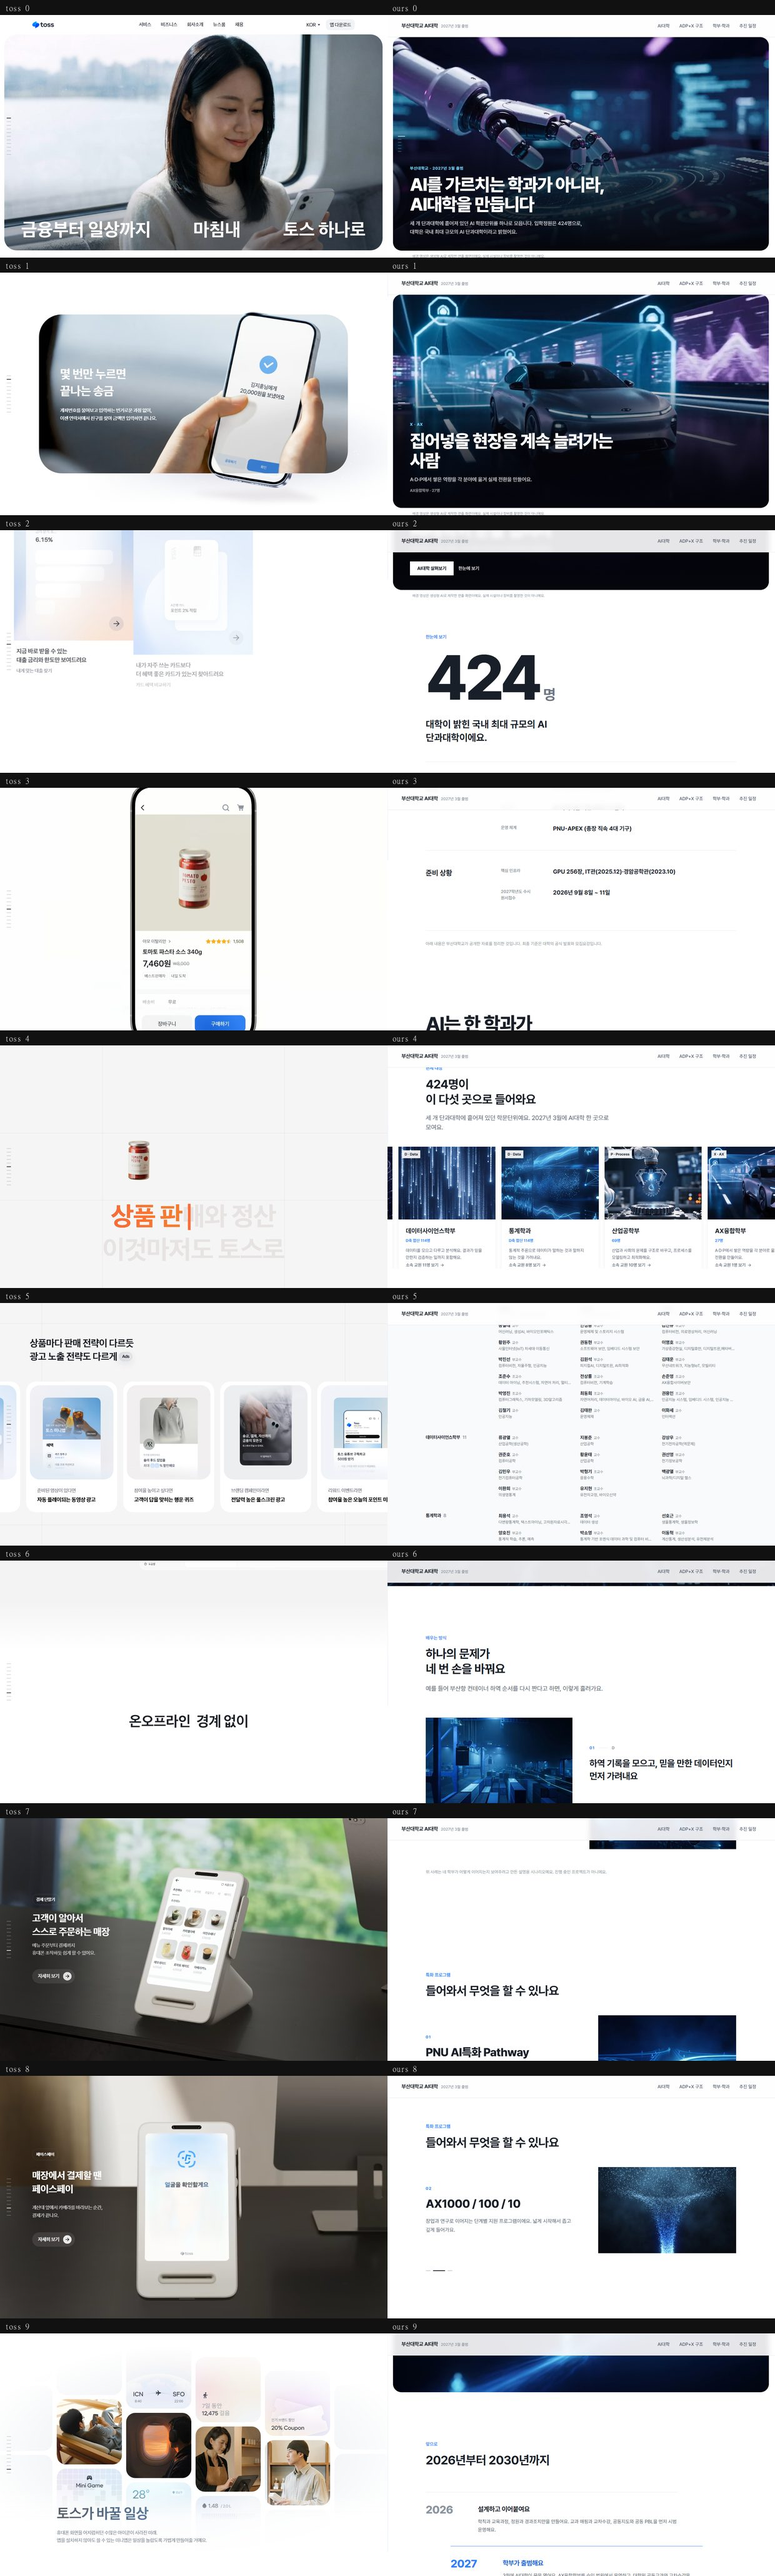
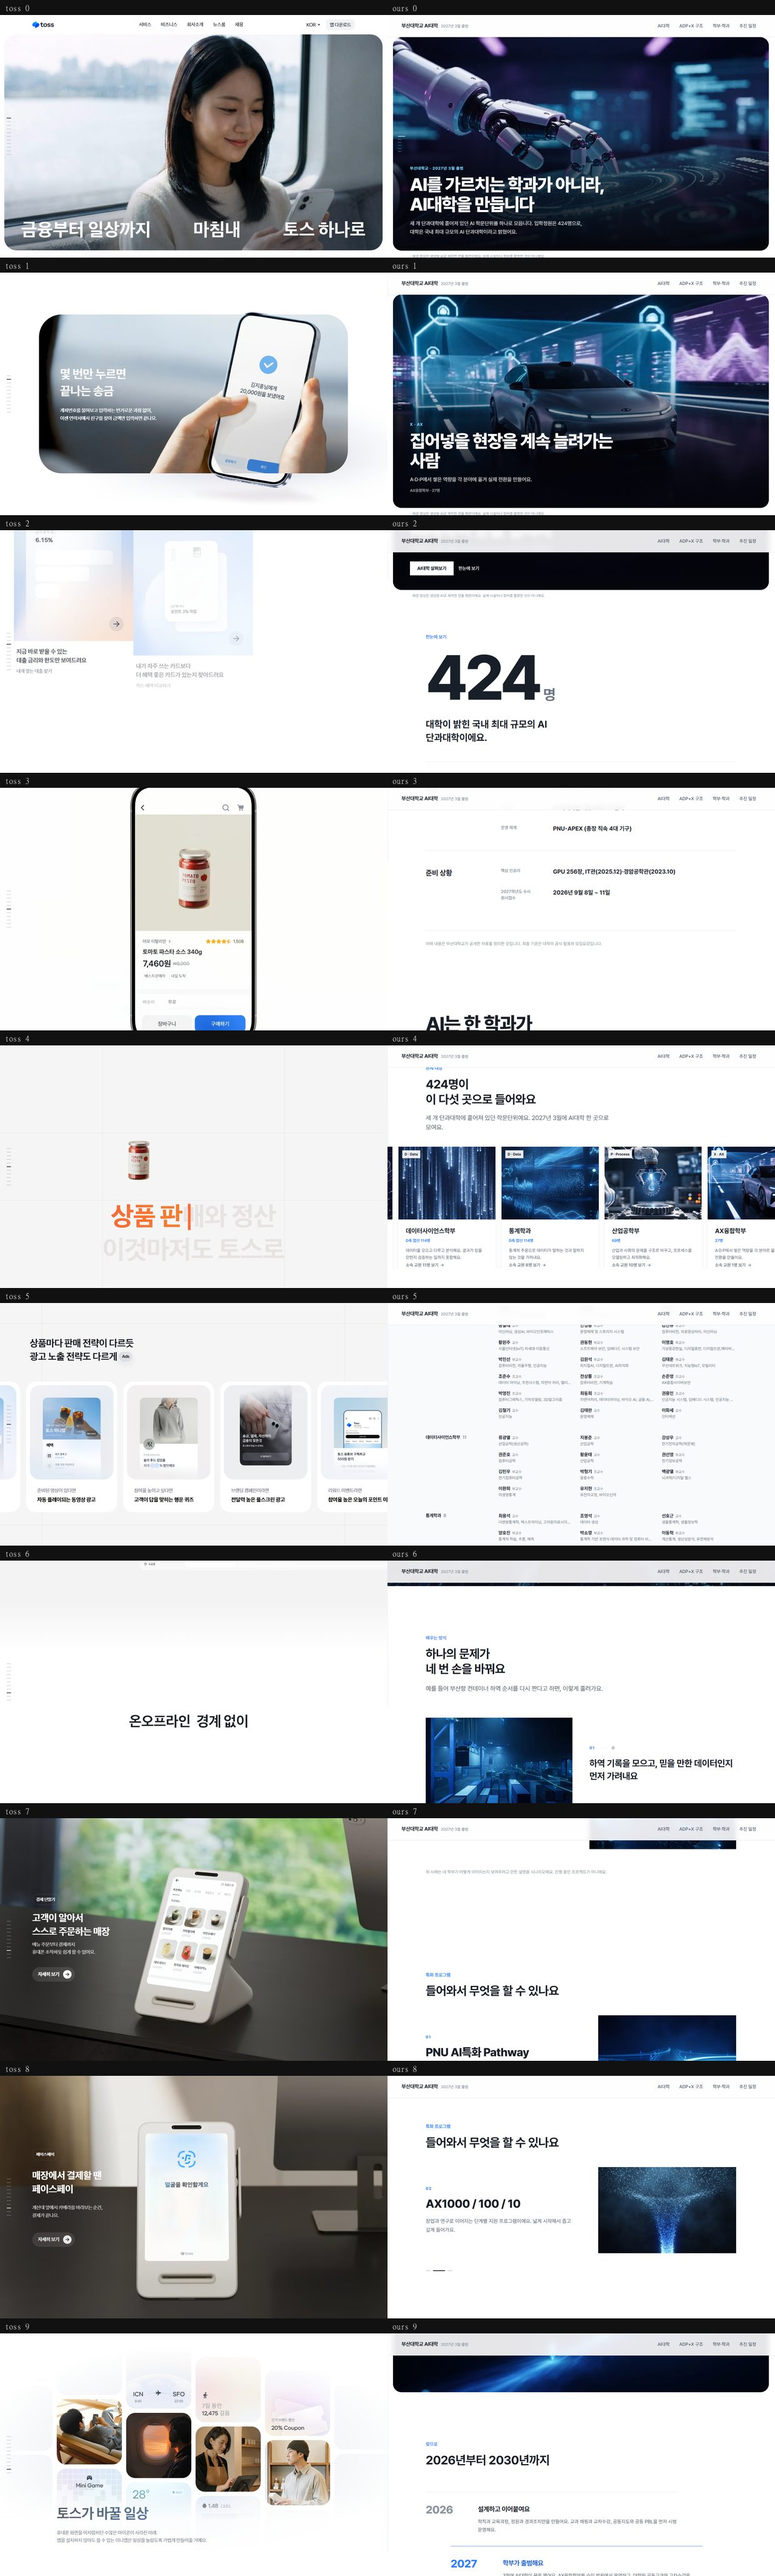
서브페이지 모바일에서 두 가지를 고친다
18회차에 홈만 390px 로 봤다. 서브페이지 네 곳을 마저 훑었다.
가로 넘침은 네 곳 다 없었다(390/390). 대신 둘이 나왔다.

[띠가 조각이 된다] 전면 이미지 띠를 21:7 로 잡아뒀는데 좁은 화면에서는
370px 폭에 높이가 162px 밖에 안 된다. 건물도 길도 무엇인지 알아볼 수 없다.
데스크톱 1240x413 과 나란히 두면 차이가 분명하다.

  MediaBand 기본값과 FactSheet·Roadmap 의 띠에 모바일 단계를 따로 뒀다.
  aspect-[3/2] sm:aspect-[16/7] md:aspect-[21/7]
  실측 370x162 → 370x247. 데스크톱은 1240x413 그대로다.

[추진 일정 옆에 차가 달린다] /ai-college/roadmap 의 그림이 자율주행차였다.
11회차에 이 자리에 맞는 그림(어두운 공간을 지나는 파란 길, 점점 커지는 다섯
표식)을 roadmap_path_v 로 새로 만들면서 포스터만 갈아 끼우고 영상 슬러그를
두고 갔다. 홈은 새 그림, 서브페이지는 옛 차 영상이 나오고 있었다.

  슬러그를 roadmap_path_v 로 바꾸고 액자 배경도 회색에서 검게 맞췄다.
  밝은 상자에 짙은 화면을 넣으면 레터박스가 생긴다.
  밀려난 차 영상은 지우지 않고 assets/unused 로 옮겼다.

Claude-Session: https://claude.ai/code/session_01DneFDYxx25DjwNJdj8uLH7

diff --git a/src/pages/RoadmapPage.jsx b/src/pages/RoadmapPage.jsx
@@ -18,8 +18,16 @@ export default function RoadmapPage() {
 
       <section className="band bg-canvas">
         <div className="edge">
-          <figure data-reveal className="mb-14 max-w-[560px] rounded-[--radius-xl] bg-gray-50 p-4 md:p-6">
-            <LoopMedia slug="roadmap_path" alt="점점 커지는 다섯 개의 표식이 하나의 오르막 띠를 따라 놓인 도형" className="w-full" />
+          {/*
+            슬러그가 roadmap_path 였는데 그 영상은 편집본에서 잘라낸 자율주행차다.
+            11회차에 이 자리에 맞는 그림(어두운 공간을 지나는 파란 길, 점점 커지는
+            다섯 표식)을 roadmap_path_v 로 새로 만들었지만 포스터만 갈아 끼우고
+            영상 슬러그를 두고 갔다. 그래서 「추진 일정」 옆에 차가 달리고 있었다.
+
+            액자 배경도 회색이었다. 밝은 상자에 짙은 화면을 넣으면 레터박스가 생긴다.
+          */}
+          <figure data-reveal className="mb-14 max-w-[560px] overflow-hidden rounded-[--radius-xl] bg-[#0a0a14]">
+            <LoopMedia slug="roadmap_path_v" alt="어두운 공간에 파란 길이 안쪽으로 이어지고, 그 위에 다섯 개의 표식이 점점 커지며 놓여 있다." className="w-full" />
           </figure>
 
           <ol>

diff --git a/src/components/MediaBand.jsx b/src/components/MediaBand.jsx
@@ -11,7 +11,12 @@ import { useReducedMotion } from '../hooks/useMedia'
  * 히어로와 같은 둥근 카드 기하를 쓴다. 각진 전면 사각형을 섞으면 히어로와
  * 기하가 충돌한다 (8회차에 파란 사각형을 걷어낸 이유).
  */
-export default function MediaBand({ slug, ratio = 'aspect-[16/7] md:aspect-[21/7]', alt = '' }) {
+/*
+ * 기본 비율에 모바일 단계를 따로 둔다. 21:7 을 그대로 좁은 화면에 쓰면
+ * 370px 폭에서 높이가 123px 밖에 안 된다. 390px 실측에서 162px 였고, 건물도
+ * 길도 무엇인지 알아볼 수 없는 조각이 된다. 손안에서는 3:2 로 세워 둔다.
+ */
+export default function MediaBand({ slug, ratio = 'aspect-[3/2] sm:aspect-[16/7] md:aspect-[21/7]', alt = '' }) {
   const reduced = useReducedMotion()
   const poster = asset(`img/${slug}@2x.webp`)
 

diff --git a/src/scenes/FactSheetScene.jsx b/src/scenes/FactSheetScene.jsx
@@ -99,7 +99,7 @@ export default function FactSheetScene() {
 
       {/* 글자 없는 이미지 한 장. 앞은 숫자, 뒤는 표라 사이에 눈이 쉴 자리를 둔다. */}
       <div className="px-[10px] md:px-5">
-        <div className="relative aspect-[16/7] overflow-hidden rounded-[18px] bg-[#0a0a14] md:aspect-[21/7] md:rounded-[28px]">
+        <div className="relative aspect-[3/2] overflow-hidden rounded-[18px] bg-[#0a0a14] sm:aspect-[16/7] md:aspect-[21/7] md:rounded-[28px]">
           {reduced ? (
             <img src={asset('img/band_lab@2x.webp')} alt="" className="h-full w-full object-cover" />
           ) : (

diff --git a/src/scenes/RoadmapScene.jsx b/src/scenes/RoadmapScene.jsx
@@ -33,7 +33,7 @@ export default function RoadmapScene() {
     <>
       <MediaBand
         slug="roadmap_path_v"
-        ratio="aspect-[16/8] md:aspect-[21/8]"
+        ratio="aspect-[3/2] sm:aspect-[16/8] md:aspect-[21/8]"
         alt="어두운 공간에 파란 길이 안쪽으로 이어지고, 그 위에 다섯 개의 표식이 점점 커지며 놓여 있다."
       />
 
